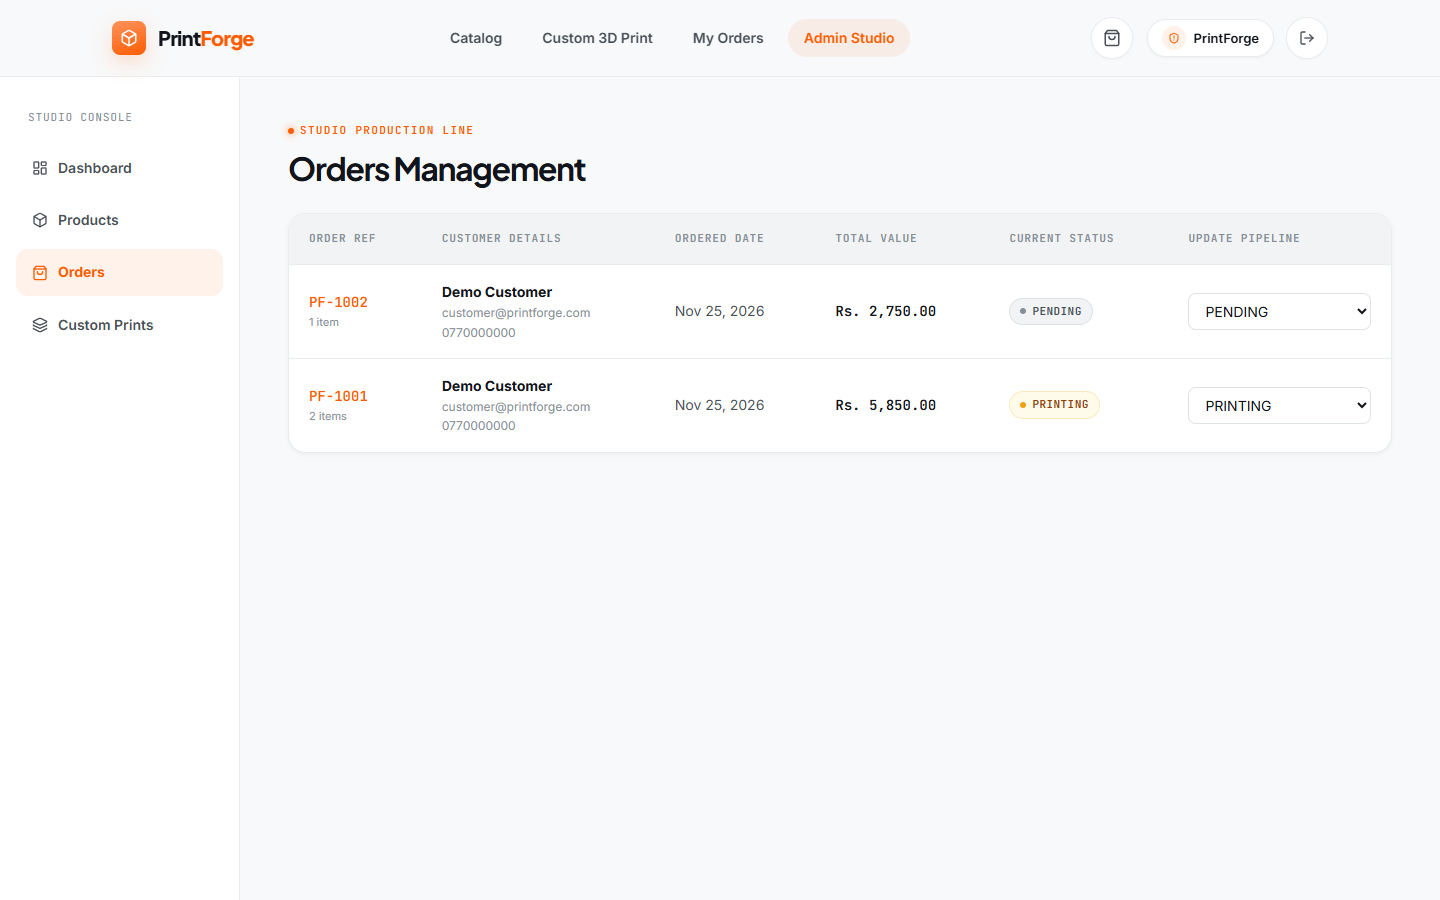
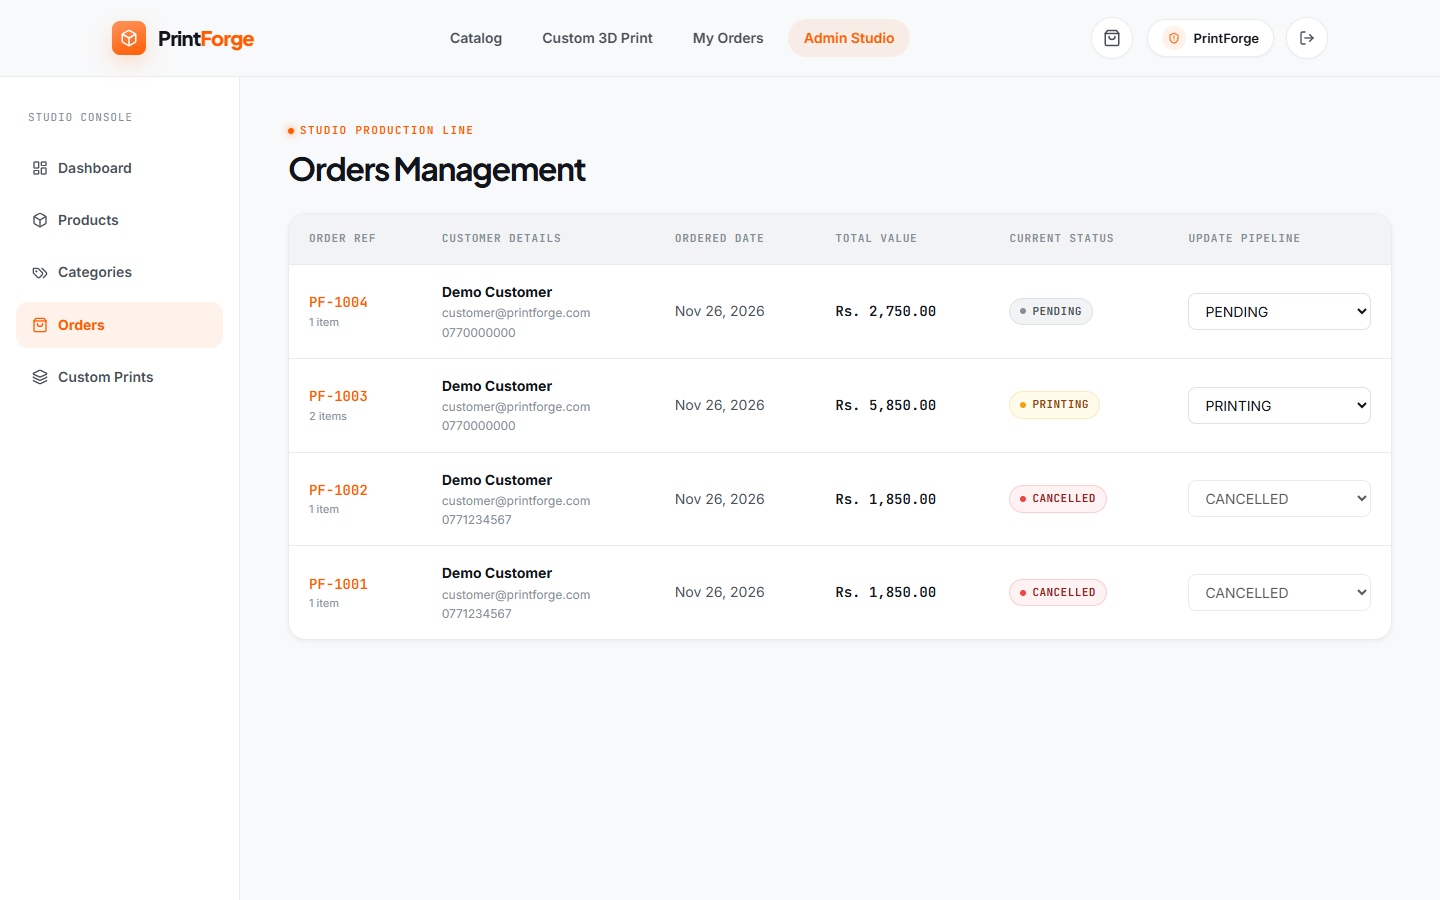
Refresh README screenshots and add the new pages
Recaptured from a disposable stack with demo data only: the dashboard
with its new section spacing, plus the categories admin page, the
combined My Orders page and account settings.

diff --git a/README.md b/README.md
@@ -28,7 +28,7 @@ Built as a realistic, portfolio-quality MVP — clean layered architecture, real
 
 ## Screenshots
 
-Captured from a local run with the seeded demo data (demo accounts, generated placeholder product photos).
+Captured from a disposable local stack with the seeded demo data only (demo accounts, generated placeholder product photos, orders placed by the end-to-end tests).
 
 | Storefront | Product detail |
 |---|---|
@@ -39,6 +39,10 @@ Captured from a local run with the seeded demo data (demo accounts, generated pl
 | ![Custom print upload](screenshots/05-custom-print-upload.png) | ![Admin dashboard](screenshots/06-admin-dashboard.png) |
 | **Admin products** | **Admin orders** (only valid next statuses offered) |
 | ![Admin product list](screenshots/07-admin-products.png) | ![Admin order list](screenshots/08-admin-orders.png) |
+| **Admin categories** | **My Orders** (orders and custom print requests) |
+| ![Admin categories](screenshots/09-admin-categories.png) | ![My orders](screenshots/10-my-orders.png) |
+| **Account settings** | |
+| ![Account settings](screenshots/11-account.png) | |
 
 ## Tech Stack
 
